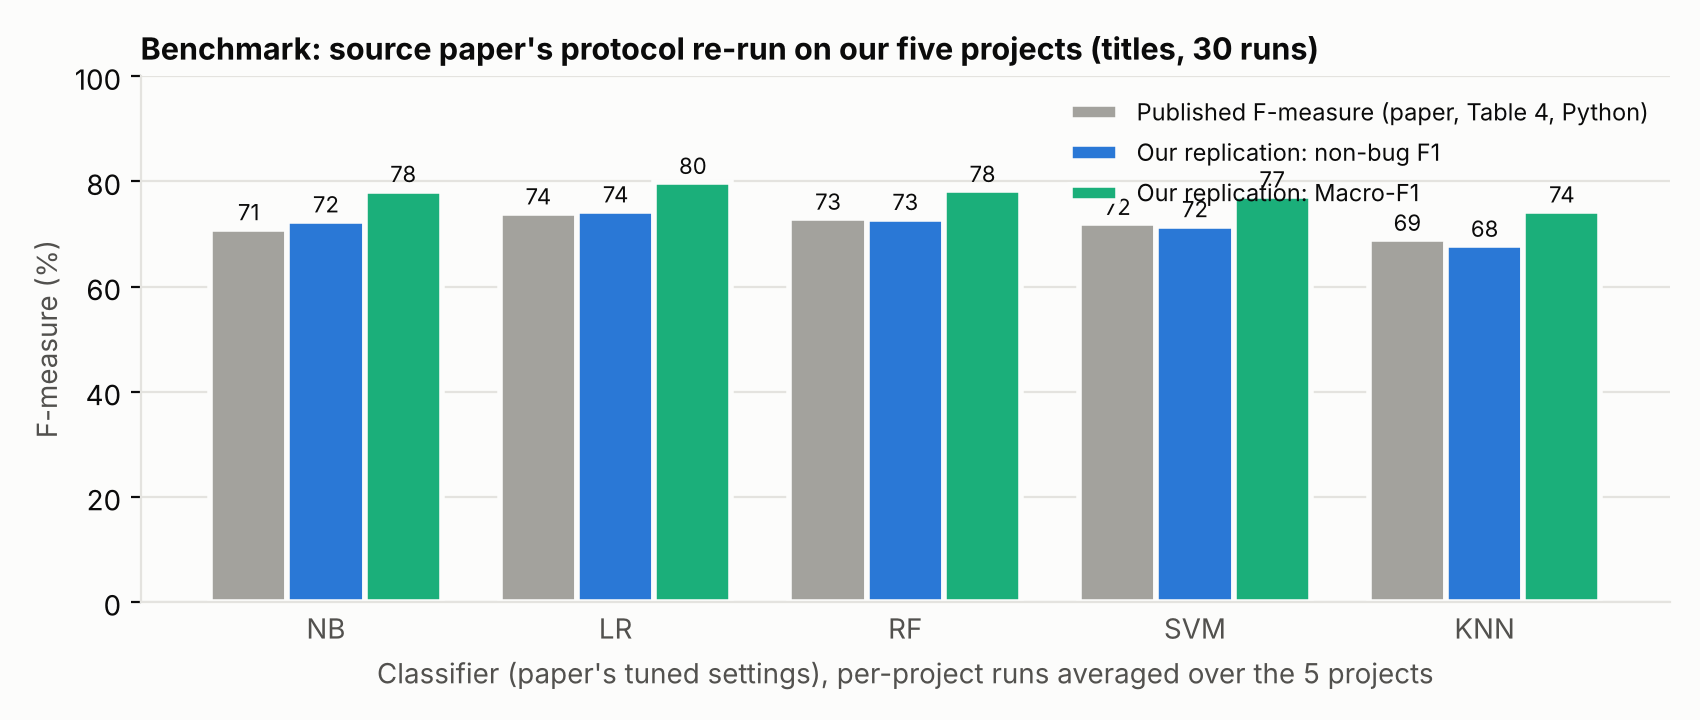
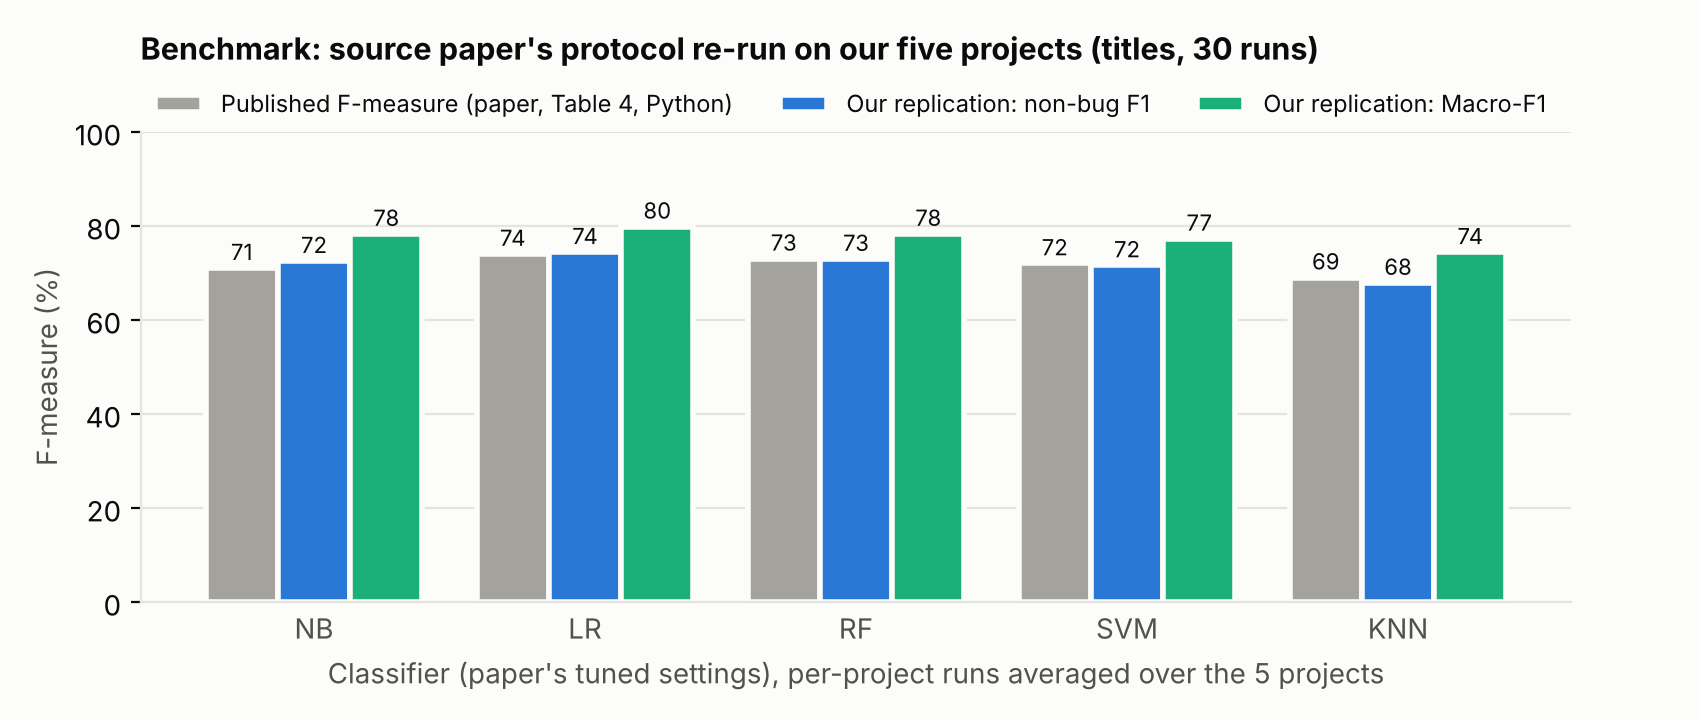
README ve Grafik Düzeltmeleri

diff --git a/make_figures.py b/make_figures.py
@@ -231,8 +231,8 @@ def paper_comparison():
     ax.set_ylim(0, 100)
     ax.set_xlabel("Classifier (paper's tuned settings), per-project runs averaged over the 5 projects")
     ax.set_ylabel("F-measure (%)")
-    ax.set_title("Benchmark: source paper's protocol re-run on our five projects (titles, 30 runs)")
-    ax.legend(frameon=False, loc="upper right", fontsize=8.5, ncol=1)
+    ax.set_title("Benchmark: source paper's protocol re-run on our five projects (titles, 30 runs)", pad=26)
+    ax.legend(frameon=False, loc="lower left", bbox_to_anchor=(0, 1.0), ncol=3, fontsize=8.5, borderaxespad=0.2)
     ax.grid(axis="y", color=GRID, linewidth=0.8)
     ax.set_axisbelow(True)
     ax.tick_params(axis="x", length=0)

diff --git a/README.md b/README.md
@@ -62,7 +62,7 @@ All values are percentages. \* The best of the configurations in [Additional exp
 
 - Fine-tuned transformers beat the baseline classical models (TF-IDF logistic regression) by about 4 Macro-F1 points on the random split and 4 to 5 points on the cross-project split. Feature engineering and threshold tuning close about half of that gap.
 - DeBERTa-v3-small (6 layers) matches BERT-base (12 layers) on the random split and is about 0.9 Macro-F1 points better on the unseen project.
-- The Week 3 neural models with GloVe embeddings (TextCNN, BiLSTM) reach 85 to 87 Macro-F1: clearly better than the baseline classical models, on par with the tuned classical models, and 2 to 3 points below the fine-tuned transformers. They train in 1 to 1.5 minutes per scenario on a T4 GPU, against 13 to 14 minutes for DeBERTa.
+- The Week 3 neural models with GloVe embeddings (TextCNN, BiLSTM) reach 85 to 87 Macro-F1: about 2 points better than the baseline classical models, on par with the tuned classical models, and 2 to 3.5 points below the fine-tuned transformers. They train in 1 to 1.5 minutes per scenario on a T4 GPU, against 13 to 14 minutes for DeBERTa.
 - The transformers keep about 90% accuracy on a project they never saw in training (scipy), which suggests they learn general bug-report language rather than only project-specific vocabulary.
 - Both transformers are weaker on the minority class (non-bug): non-bug reports are labelled as bugs more often than the reverse.
 - Naive Bayes with raw word counts has lower accuracy than the majority baseline but much higher Macro-F1: it predicts the non-bug class far more often, which helps the minority class and hurts overall accuracy.
@@ -81,7 +81,7 @@ All values are percentages. \* The best of the configurations in [Additional exp
 | DeBERTa-v3-small | random | 85.0 | 78.0 | 92.2 | 95.0 |
 | DeBERTa-v3-small | unseen project | 87.9 | 82.7 | 91.8 | 94.5 |
 
-Non-bug recall is the weak spot of every model: about one non-bug report in five is labelled as a bug. Precision and recall of all other models are in the matching `*metrics.json` files.
+Non-bug recall is the transformers' weak spot: about one non-bug report in five is labelled as a bug. It is lower still for the TF-IDF baselines (67 to 71% for logistic regression and SVM); only Naive Bayes on raw counts reaches 89 to 97%, by calling most reports non-bug. Precision and recall of every model are in the matching `*metrics.json` files.
 
 ## Additional experiments: feature engineering, class imbalance, ensemble
 
@@ -179,6 +179,8 @@ The model has learned, sensibly, that failure vocabulary means "bug". Its mistak
 
 Records per project (raw): numpy 6,079, pandas 9,304, salt 12,397, scipy 4,586, weblate 2,583.
 
+![Bug / non-bug reports per project after cleaning](results/figures/class_distribution.png)
+
 The labels were assigned by the source authors and issue-tracker participants, not by this project.
 
 ## Preprocessing
@@ -222,13 +224,13 @@ Two fixed scenarios, both created by `preprocess.py` with seed 42 and stored as 
 | BiLSTM | `train_neural.py --model bilstm` | GloVe 100d, one bidirectional LSTM layer (128 units per direction), max + mean pooling, dropout 0.5; same training setup |
 | Paper protocol | `paper_protocol.py` | See [Benchmark against the source paper](#benchmark-against-the-source-paper) |
 
-TextCNN and BiLSTM were trained on a Colab T4 GPU with `colab_runs.ipynb` GloVe covers only about 36% of the 50,000-word vocabulary (18,083 words on the random split): code identifiers, function names and project terms are missing and start from random vectors that are learned during training.
+TextCNN and BiLSTM were trained on a Colab T4 GPU with `colab_runs.ipynb`. GloVe covers only about 36% of the 50,000-word vocabulary (18,083 words on the random split): code identifiers, function names and project terms are missing and start from random vectors that are learned during training.
 
 Both transformer scripts share the same training setup: first 256 tokens per report with padding per batch, AdamW (lr 2e-5, weight decay 0.01), linear warm-up over 6% of the steps, batch size 16, 2 epochs, gradient clipping at 1.0, mixed precision, and checkpoint selection by validation Macro-F1.
 
 ## How to reproduce
 
-### 1. Data and classical models (CPU, a few minutes)
+### 1. Data, classical models and analyses (CPU)
 
 ```bash
 git clone https://github.com/zehraoz36/tokens-project-1.git
